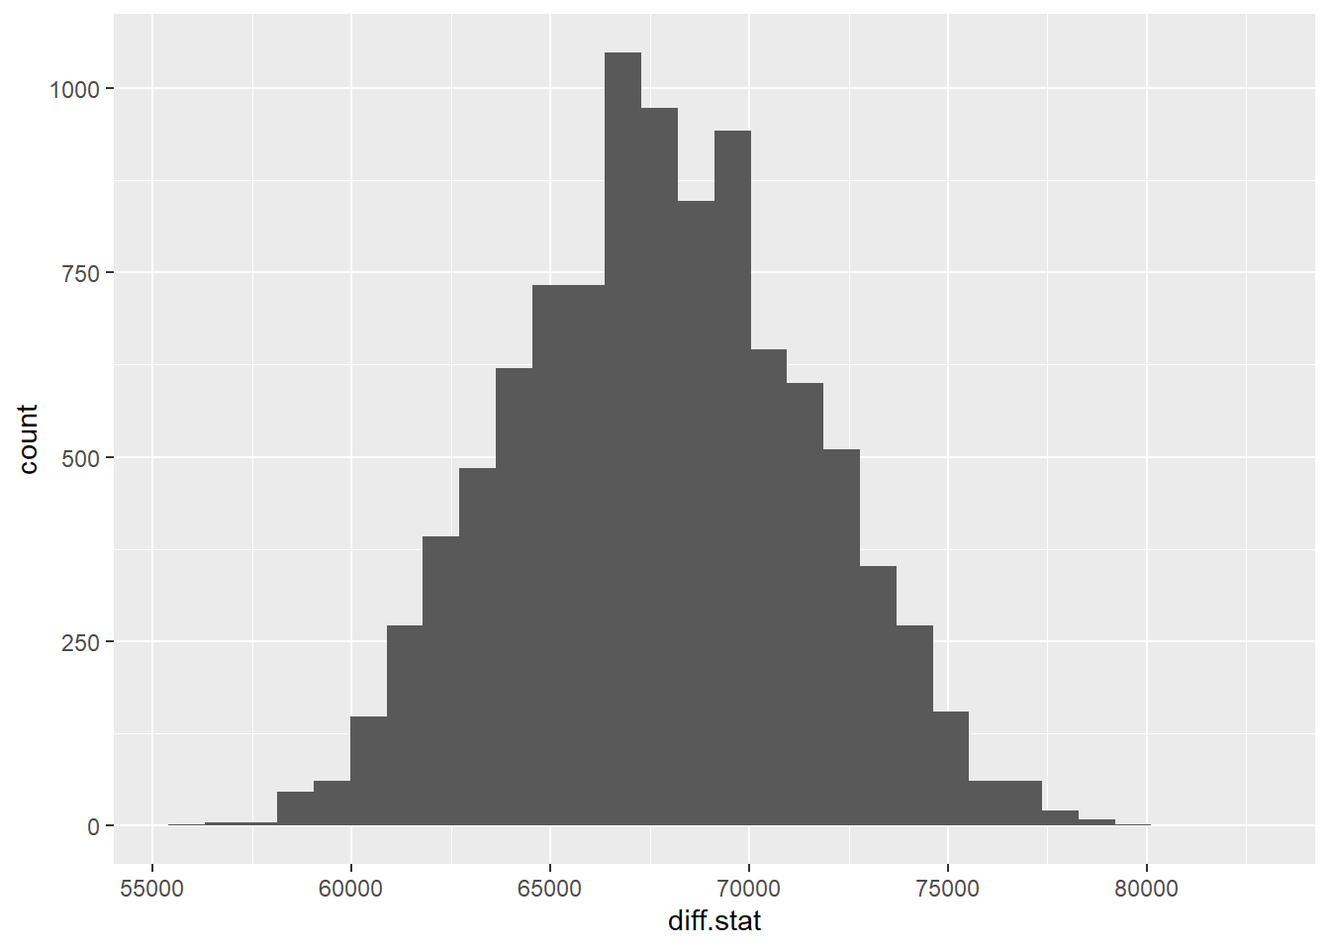
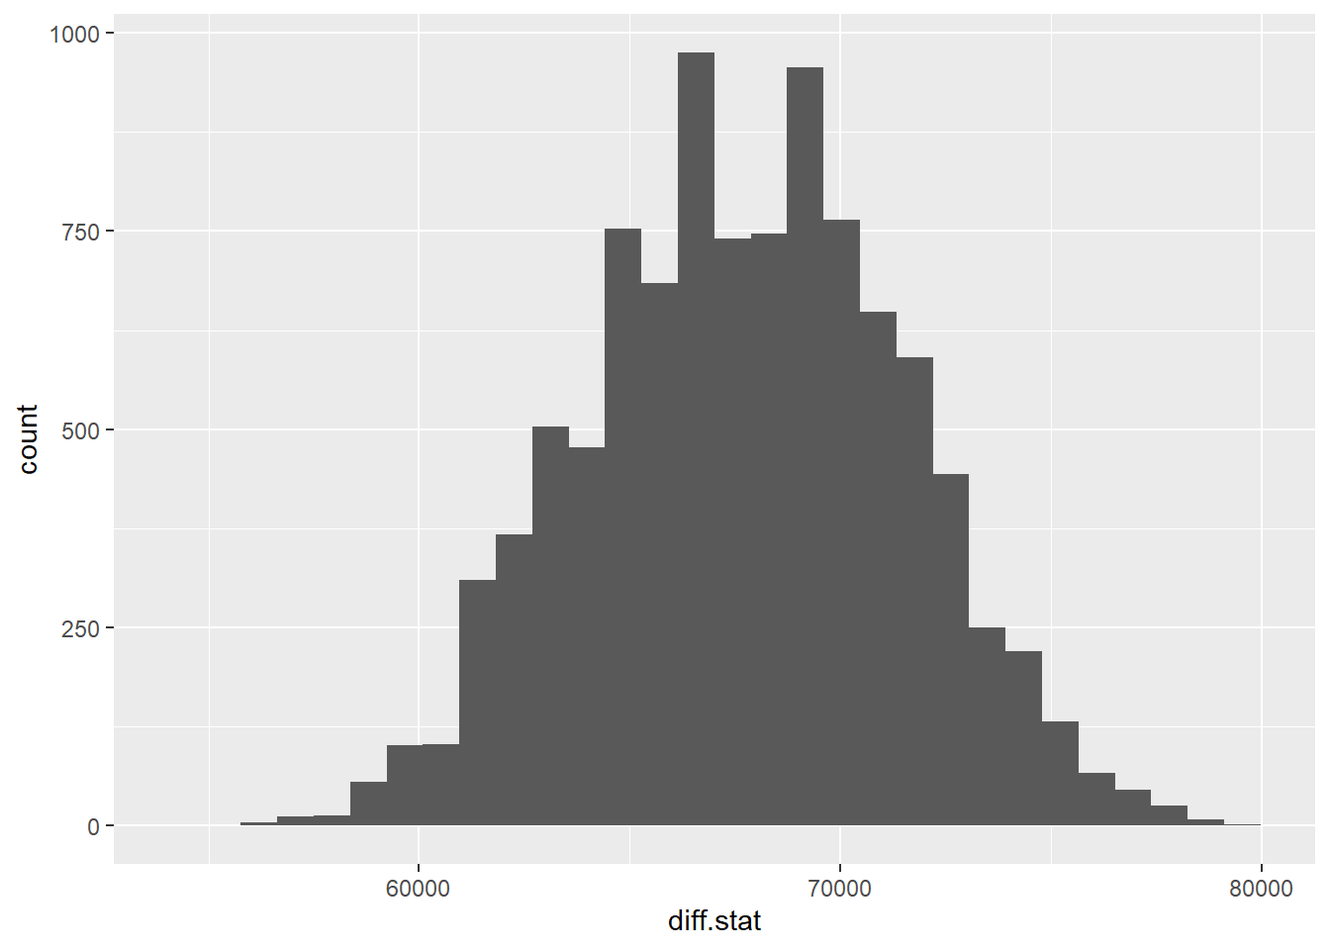
Association rules in python

diff --git a/docs/introduction.html b/docs/introduction.html
@@ -158,7 +158,10 @@ code span.wa { color: #60a0b0; font-weight: bold; font-style: italic; } /* Warni
 <li class="chapter" data-level="2.2.1" data-path="introduction.html"><a href="introduction.html#python-code-for-fdr"><i class="fa fa-check"></i><b>2.2.1</b> Python code for FDR</a></li>
 </ul></li>
 <li class="chapter" data-level="2.3" data-path="introduction.html"><a href="introduction.html#transaction-data"><i class="fa fa-check"></i><b>2.3</b> Transaction data</a></li>
-<li class="chapter" data-level="2.4" data-path="introduction.html"><a href="introduction.html#association-analysis"><i class="fa fa-check"></i><b>2.4</b> Association Analysis</a></li>
+<li class="chapter" data-level="2.4" data-path="introduction.html"><a href="introduction.html#association-analysis"><i class="fa fa-check"></i><b>2.4</b> Association Analysis</a>
+<ul>
+<li class="chapter" data-level="2.4.1" data-path="introduction.html"><a href="introduction.html#python-code-for-association-analysis"><i class="fa fa-check"></i><b>2.4.1</b> Python code for Association Analysis</a></li>
+</ul></li>
 </ul></li>
 <li class="chapter" data-level="3" data-path="decision-trees.html"><a href="decision-trees.html"><i class="fa fa-check"></i><b>3</b> Decision Trees</a>
 <ul>
@@ -267,12 +270,12 @@ code span.wa { color: #60a0b0; font-weight: bold; font-style: italic; } /* Warni
 <span id="cb5-8"><a href="introduction.html#cb5-8" tabindex="-1"></a>  boot.med[i]<span class="ot">=</span><span class="fu">median</span>(boot.samp)</span>
 <span id="cb5-9"><a href="introduction.html#cb5-9" tabindex="-1"></a>}</span>
 <span id="cb5-10"><a href="introduction.html#cb5-10" tabindex="-1"></a><span class="fu">sd</span>(boot.med)</span>
-<span id="cb5-11"><a href="introduction.html#cb5-11" tabindex="-1"></a><span class="do">## [1] 1.344323</span></span>
+<span id="cb5-11"><a href="introduction.html#cb5-11" tabindex="-1"></a><span class="do">## [1] 1.352779</span></span>
 <span id="cb5-12"><a href="introduction.html#cb5-12" tabindex="-1"></a>act.med</span>
 <span id="cb5-13"><a href="introduction.html#cb5-13" tabindex="-1"></a><span class="do">## [1] 335.17</span></span>
 <span id="cb5-14"><a href="introduction.html#cb5-14" tabindex="-1"></a><span class="fu">quantile</span>(boot.med,<span class="at">probs =</span> <span class="fu">c</span>(<span class="fl">0.025</span>,<span class="fl">0.975</span>))</span>
-<span id="cb5-15"><a href="introduction.html#cb5-15" tabindex="-1"></a><span class="do">##    2.5%   97.5% </span></span>
-<span id="cb5-16"><a href="introduction.html#cb5-16" tabindex="-1"></a><span class="do">## 332.745 337.800</span></span>
+<span id="cb5-15"><a href="introduction.html#cb5-15" tabindex="-1"></a><span class="do">##   2.5%  97.5% </span></span>
+<span id="cb5-16"><a href="introduction.html#cb5-16" tabindex="-1"></a><span class="do">## 332.60 337.79</span></span>
 <span id="cb5-17"><a href="introduction.html#cb5-17" tabindex="-1"></a><span class="fu">ggplot</span>(<span class="at">data=</span><span class="fu">data.frame</span>(boot.med),<span class="fu">aes</span>(<span class="at">x=</span>boot.med))<span class="sc">+</span><span class="fu">geom_histogram</span>() <span class="sc">+</span> <span class="fu">labs</span>(<span class="at">x=</span><span class="st">&quot;Bootstrap Sample&quot;</span>,<span class="at">y=</span><span class="st">&quot;Frequency&quot;</span>)</span>
 <span id="cb5-18"><a href="introduction.html#cb5-18" tabindex="-1"></a><span class="do">## `stat_bin()` using `bins = 30`. Pick better value with `binwidth`.</span></span></code></pre></div>
 <p><img src="bookdownproj_files/figure-html/bootstrap%20confidence%20interval-3.png" width="672" />
@@ -294,8 +297,8 @@ The second example is exploring if the median price of homes in Iowa with air co
 <pre><code>## `stat_bin()` using `bins = 30`. Pick better value with `binwidth`.</code></pre>
 <p><img src="bookdownproj_files/figure-html/bootstrap%20hypothesis%20test-1.png" width="672" /></p>
 <div class="sourceCode" id="cb8"><pre class="sourceCode r"><code class="sourceCode r"><span id="cb8-1"><a href="introduction.html#cb8-1" tabindex="-1"></a><span class="fu">quantile</span>(diff.stat,<span class="at">probs =</span> <span class="fu">c</span>(<span class="fl">0.005</span>,<span class="fl">0.995</span>))</span></code></pre></div>
-<pre><code>##    0.5%   99.5% 
-## 59000.0 76882.8</code></pre>
+<pre><code>##     0.5%    99.5% 
+## 58949.62 77000.00</code></pre>
 <p>Since the confidence interval does NOT include 0, we would conclude that the medians appear to be significantly different.</p>
 <div id="python-for-bootstrapping" class="section level3 hasAnchor" number="2.1.1">
 <h3><span class="header-section-number">2.1.1</span> Python for Bootstrapping<a href="introduction.html#python-for-bootstrapping" class="anchor-section" aria-label="Anchor link to header"></a></h3>
@@ -324,15 +327,15 @@ The second example is exploring if the median price of homes in Iowa with air co
 <span id="cb15-5"><a href="introduction.html#cb15-5" tabindex="-1"></a><span class="co">#temp =statistics.median(random.choice(co2_py,n))</span></span>
 <span id="cb15-6"><a href="introduction.html#cb15-6" tabindex="-1"></a></span>
 <span id="cb15-7"><a href="introduction.html#cb15-7" tabindex="-1"></a><span class="bu">print</span>(statistics.stdev(temp))</span></code></pre></div>
-<pre><code>## 1.3555625565580598</code></pre>
+<pre><code>## 1.3513368511809096</code></pre>
 <div class="sourceCode" id="cb17"><pre class="sourceCode python"><code class="sourceCode python"><span id="cb17-1"><a href="introduction.html#cb17-1" tabindex="-1"></a><span class="bu">print</span>(<span class="st">&quot;Lower 95</span><span class="sc">% c</span><span class="st">onfidence interval for median&quot;</span>,np.quantile(temp,<span class="fl">0.025</span>))</span></code></pre></div>
-<pre><code>## Lower 95% confidence interval for median 332.675</code></pre>
+<pre><code>## Lower 95% confidence interval for median 332.745</code></pre>
 <div class="sourceCode" id="cb19"><pre class="sourceCode python"><code class="sourceCode python"><span id="cb19-1"><a href="introduction.html#cb19-1" tabindex="-1"></a><span class="bu">print</span>(<span class="st">&quot;Upper 95</span><span class="sc">% c</span><span class="st">onfidence interval for median&quot;</span>,np.quantile(temp,<span class="fl">0.975</span>))</span></code></pre></div>
 <pre><code>## Upper 95% confidence interval for median 337.81</code></pre>
 <div class="sourceCode" id="cb21"><pre class="sourceCode python"><code class="sourceCode python"><span id="cb21-1"><a href="introduction.html#cb21-1" tabindex="-1"></a>plt.hist(temp)</span></code></pre></div>
-<pre><code>## (array([  18.,  253.,  771., 2082., 2426., 2836.,  938.,  628.,   43.,
-##           5.]), array([330.735, 331.706, 332.677, 333.648, 334.619, 335.59 , 336.561,
-##        337.532, 338.503, 339.474, 340.445]), &lt;BarContainer object of 10 artists&gt;)</code></pre>
+<pre><code>## (array([  17.,  201.,  817., 2331., 2172., 3390.,  682.,  344.,   38.,
+##           8.]), array([330.645 , 331.6555, 332.666 , 333.6765, 334.687 , 335.6975,
+##        336.708 , 337.7185, 338.729 , 339.7395, 340.75  ]), &lt;BarContainer object of 10 artists&gt;)</code></pre>
 <div class="sourceCode" id="cb23"><pre class="sourceCode python"><code class="sourceCode python"><span id="cb23-1"><a href="introduction.html#cb23-1" tabindex="-1"></a>plt.show()</span></code></pre></div>
 <p><img src="bookdownproj_files/figure-html/unnamed-chunk-1-2.png" width="672" /></p>
 <div class="sourceCode" id="cb24"><pre class="sourceCode python"><code class="sourceCode python"><span id="cb24-1"><a href="introduction.html#cb24-1" tabindex="-1"></a>ames_py<span class="op">=</span>r.ames</span>
@@ -350,9 +353,9 @@ The second example is exploring if the median price of homes in Iowa with air co
 <span id="cb26-10"><a href="introduction.html#cb26-10" tabindex="-1"></a>  diff_sale.append(diff_temp)</span>
 <span id="cb26-11"><a href="introduction.html#cb26-11" tabindex="-1"></a>  </span>
 <span id="cb26-12"><a href="introduction.html#cb26-12" tabindex="-1"></a>plt.hist(diff_sale)</span></code></pre></div>
-<pre><code>## (array([   7.,   48.,  181., 1196., 2694., 2492., 2268.,  822.,  270.,
-##          22.]), array([60000.  , 61464.25, 62928.5 , 64392.75, 65857.  , 67321.25,
-##        68785.5 , 70249.75, 71714.  , 73178.25, 74642.5 ]), &lt;BarContainer object of 10 artists&gt;)</code></pre>
+<pre><code>## (array([  11.,   76.,  280., 1384., 3264., 2492., 1855.,  587.,   43.,
+##           8.]), array([60400., 61860., 63320., 64780., 66240., 67700., 69160., 70620.,
+##        72080., 73540., 75000.]), &lt;BarContainer object of 10 artists&gt;)</code></pre>
 <div class="sourceCode" id="cb28"><pre class="sourceCode python"><code class="sourceCode python"><span id="cb28-1"><a href="introduction.html#cb28-1" tabindex="-1"></a>plt.show()</span></code></pre></div>
 <p><img src="bookdownproj_files/figure-html/unnamed-chunk-1-3.png" width="672" /></p>
 </div>
@@ -814,9 +817,52 @@ bread
 <p><img src="bookdownproj_files/figure-html/association2-2.png" width="672" /></p>
 <div class="sourceCode" id="cb49"><pre class="sourceCode r"><code class="sourceCode r"><span id="cb49-1"><a href="introduction.html#cb49-1" tabindex="-1"></a>top10rules <span class="ot">=</span> <span class="fu">head</span>(rules, <span class="at">n =</span> <span class="dv">10</span>, <span class="at">by =</span> <span class="st">&quot;confidence&quot;</span>)</span>
 <span id="cb49-2"><a href="introduction.html#cb49-2" tabindex="-1"></a><span class="fu">plot</span>(top10rules, <span class="at">method =</span> <span class="st">&quot;graph&quot;</span>,  <span class="at">engine =</span> <span class="st">&quot;htmlwidget&quot;</span>)</span></code></pre></div>
-<div class="visNetwork html-widget html-fill-item-overflow-hidden html-fill-item" id="htmlwidget-a85db0969abbd471c6d3" style="width:672px;height:480px;"></div>
-<script type="application/json" data-for="htmlwidget-a85db0969abbd471c6d3">{"x":{"nodes":{"id":[1,2,3,4,5,6,7,8,9,10,11,12,13,14,15,16],"label":["bread","butter","egg","milk","oat packet","papaya","rule 1","rule 2","rule 3","rule 4","rule 5","rule 6","rule 7","rule 8","rule 9","rule 10"],"group":[1,1,1,1,1,1,2,2,2,2,2,2,2,2,2,2],"value":[1,1,1,1,1,1,20.8,1,20.8,40.6,1,1,1,100,20.8,40.6],"color":["#CBD2FC","#CBD2FC","#CBD2FC","#CBD2FC","#CBD2FC","#CBD2FC","#EE6666","#EE1B1B","#EE9999","#EECBCB","#EECBCB","#EECBCB","#EEB1B1","#EED4D4","#EEDCDC","#EECBCB"],"title":["bread","butter","egg","milk","oat packet","papaya","<B>[1]<\/B><BR><B>{butter}<\/B><BR>&nbsp;&nbsp; => <B>{bread}<\/B><BR><BR>support = 0.273<BR>confidence = 1<BR>coverage = 0.273<BR>lift = 1.57<BR>count = 3<BR>order = 2<BR>id = 1","<B>[2]<\/B><BR><B>{bread,<BR>&nbsp;&nbsp;oat packet}<\/B><BR>&nbsp;&nbsp; => <B>{papaya}<\/B><BR><BR>support = 0.182<BR>confidence = 1<BR>coverage = 0.182<BR>lift = 1.83<BR>count = 2<BR>order = 3<BR>id = 2","<B>[3]<\/B><BR><B>{oat packet}<\/B><BR>&nbsp;&nbsp; => <B>{papaya}<\/B><BR><BR>support = 0.273<BR>confidence = 0.75<BR>coverage = 0.364<BR>lift = 1.38<BR>count = 3<BR>order = 2<BR>id = 3","<B>[4]<\/B><BR><B>{papaya}<\/B><BR>&nbsp;&nbsp; => <B>{bread}<\/B><BR><BR>support = 0.364<BR>confidence = 0.667<BR>coverage = 0.545<BR>lift = 1.05<BR>count = 4<BR>order = 2<BR>id = 4","<B>[5]<\/B><BR><B>{oat packet,<BR>&nbsp;&nbsp;papaya}<\/B><BR>&nbsp;&nbsp; => <B>{bread}<\/B><BR><BR>support = 0.182<BR>confidence = 0.667<BR>coverage = 0.273<BR>lift = 1.05<BR>count = 2<BR>order = 3<BR>id = 5","<B>[6]<\/B><BR><B>{milk,<BR>&nbsp;&nbsp;papaya}<\/B><BR>&nbsp;&nbsp; => <B>{bread}<\/B><BR><BR>support = 0.182<BR>confidence = 0.667<BR>coverage = 0.273<BR>lift = 1.05<BR>count = 2<BR>order = 3<BR>id = 6","<B>[7]<\/B><BR><B>{bread,<BR>&nbsp;&nbsp;milk}<\/B><BR>&nbsp;&nbsp; => <B>{papaya}<\/B><BR><BR>support = 0.182<BR>confidence = 0.667<BR>coverage = 0.273<BR>lift = 1.22<BR>count = 2<BR>order = 3<BR>id = 7","<B>[8]<\/B><BR><B>{}<\/B><BR>&nbsp;&nbsp; => <B>{bread}<\/B><BR><BR>support = 0.636<BR>confidence = 0.636<BR>coverage = 1<BR>lift = 1<BR>count = 7<BR>order = 1<BR>id = 8","<B>[9]<\/B><BR><B>{egg}<\/B><BR>&nbsp;&nbsp; => <B>{bread}<\/B><BR><BR>support = 0.273<BR>confidence = 0.6<BR>coverage = 0.455<BR>lift = 0.943<BR>count = 3<BR>order = 2<BR>id = 9","<B>[10]<\/B><BR><B>{bread}<\/B><BR>&nbsp;&nbsp; => <B>{papaya}<\/B><BR><BR>support = 0.364<BR>confidence = 0.571<BR>coverage = 0.636<BR>lift = 1.05<BR>count = 4<BR>order = 2<BR>id = 10"],"shape":["box","box","box","box","box","box","circle","circle","circle","circle","circle","circle","circle","circle","circle","circle"],"x":[0.113164853118797,0.00747004075560409,-1,1,0.274103923951308,0.467118355857654,0.0595230300362222,0.28053660632711,0.601403405471269,0.0682381810990156,0.103940883387256,0.606051973161515,0.676436484424188,-0.208593690788155,-0.534959354208641,0.374400303678304],"y":[0.0985409754331625,-1,0.0560565730212621,-0.0213725308481618,1,0.475508563567383,-0.540111660441799,0.631141138859338,0.962061768806175,0.372181725600326,0.63576799782864,0.0274591471665879,0.193545455055444,-0.215153794068995,0.075401119720711,0.162414364832449]},"edges":{"from":[2,1,5,5,6,5,6,4,6,1,4,3,1,7,8,9,10,11,12,13,14,15,16],"to":[7,8,8,9,10,11,11,12,12,13,13,15,16,1,6,6,1,1,1,6,1,1,6],"arrows":["to","to","to","to","to","to","to","to","to","to","to","to","to","to","to","to","to","to","to","to","to","to","to"]},"nodesToDataframe":true,"edgesToDataframe":true,"options":{"width":"100%","height":"100%","nodes":{"shape":"dot","physics":false},"manipulation":{"enabled":false},"edges":{"smooth":false},"physics":{"stabilization":false},"interaction":{"hover":true,"zoomSpeed":1}},"groups":["1","2"],"width":null,"height":null,"idselection":{"enabled":true,"style":"width: 150px; height: 26px","useLabels":true,"main":"Select by id"},"byselection":{"enabled":false,"style":"width: 150px; height: 26px","multiple":false,"hideColor":"rgba(200,200,200,0.5)","highlight":false},"main":null,"submain":null,"footer":null,"background":"rgba(0, 0, 0, 0)","igraphlayout":{"type":"square"},"tooltipStay":300,"tooltipStyle":"position: fixed;visibility:hidden;padding: 5px;white-space: nowrap;font-family: verdana;font-size:14px;font-color:#000000;background-color: #f5f4ed;-moz-border-radius: 3px;-webkit-border-radius: 3px;border-radius: 3px;border: 1px solid #808074;box-shadow: 3px 3px 10px rgba(0, 0, 0, 0.2);","highlight":{"enabled":true,"hoverNearest":true,"degree":1,"algorithm":"all","hideColor":"rgba(200,200,200,0.5)","labelOnly":true},"collapse":{"enabled":false,"fit":false,"resetHighlight":true,"clusterOptions":null,"keepCoord":true,"labelSuffix":"(cluster)"}},"evals":[],"jsHooks":[]}</script>
+<div class="visNetwork html-widget html-fill-item-overflow-hidden html-fill-item" id="htmlwidget-61852a9f2774b94e7166" style="width:672px;height:480px;"></div>
+<script type="application/json" data-for="htmlwidget-61852a9f2774b94e7166">{"x":{"nodes":{"id":[1,2,3,4,5,6,7,8,9,10,11,12,13,14,15,16],"label":["bread","butter","egg","milk","oat packet","papaya","rule 1","rule 2","rule 3","rule 4","rule 5","rule 6","rule 7","rule 8","rule 9","rule 10"],"group":[1,1,1,1,1,1,2,2,2,2,2,2,2,2,2,2],"value":[1,1,1,1,1,1,20.8,1,20.8,40.6,1,1,1,100,20.8,40.6],"color":["#CBD2FC","#CBD2FC","#CBD2FC","#CBD2FC","#CBD2FC","#CBD2FC","#EE6666","#EE1B1B","#EE9999","#EECBCB","#EECBCB","#EECBCB","#EEB1B1","#EED4D4","#EEDCDC","#EECBCB"],"title":["bread","butter","egg","milk","oat packet","papaya","<B>[1]<\/B><BR><B>{butter}<\/B><BR>&nbsp;&nbsp; => <B>{bread}<\/B><BR><BR>support = 0.273<BR>confidence = 1<BR>coverage = 0.273<BR>lift = 1.57<BR>count = 3<BR>order = 2<BR>id = 1","<B>[2]<\/B><BR><B>{bread,<BR>&nbsp;&nbsp;oat packet}<\/B><BR>&nbsp;&nbsp; => <B>{papaya}<\/B><BR><BR>support = 0.182<BR>confidence = 1<BR>coverage = 0.182<BR>lift = 1.83<BR>count = 2<BR>order = 3<BR>id = 2","<B>[3]<\/B><BR><B>{oat packet}<\/B><BR>&nbsp;&nbsp; => <B>{papaya}<\/B><BR><BR>support = 0.273<BR>confidence = 0.75<BR>coverage = 0.364<BR>lift = 1.38<BR>count = 3<BR>order = 2<BR>id = 3","<B>[4]<\/B><BR><B>{papaya}<\/B><BR>&nbsp;&nbsp; => <B>{bread}<\/B><BR><BR>support = 0.364<BR>confidence = 0.667<BR>coverage = 0.545<BR>lift = 1.05<BR>count = 4<BR>order = 2<BR>id = 4","<B>[5]<\/B><BR><B>{oat packet,<BR>&nbsp;&nbsp;papaya}<\/B><BR>&nbsp;&nbsp; => <B>{bread}<\/B><BR><BR>support = 0.182<BR>confidence = 0.667<BR>coverage = 0.273<BR>lift = 1.05<BR>count = 2<BR>order = 3<BR>id = 5","<B>[6]<\/B><BR><B>{milk,<BR>&nbsp;&nbsp;papaya}<\/B><BR>&nbsp;&nbsp; => <B>{bread}<\/B><BR><BR>support = 0.182<BR>confidence = 0.667<BR>coverage = 0.273<BR>lift = 1.05<BR>count = 2<BR>order = 3<BR>id = 6","<B>[7]<\/B><BR><B>{bread,<BR>&nbsp;&nbsp;milk}<\/B><BR>&nbsp;&nbsp; => <B>{papaya}<\/B><BR><BR>support = 0.182<BR>confidence = 0.667<BR>coverage = 0.273<BR>lift = 1.22<BR>count = 2<BR>order = 3<BR>id = 7","<B>[8]<\/B><BR><B>{}<\/B><BR>&nbsp;&nbsp; => <B>{bread}<\/B><BR><BR>support = 0.636<BR>confidence = 0.636<BR>coverage = 1<BR>lift = 1<BR>count = 7<BR>order = 1<BR>id = 8","<B>[9]<\/B><BR><B>{egg}<\/B><BR>&nbsp;&nbsp; => <B>{bread}<\/B><BR><BR>support = 0.273<BR>confidence = 0.6<BR>coverage = 0.455<BR>lift = 0.943<BR>count = 3<BR>order = 2<BR>id = 9","<B>[10]<\/B><BR><B>{bread}<\/B><BR>&nbsp;&nbsp; => <B>{papaya}<\/B><BR><BR>support = 0.364<BR>confidence = 0.571<BR>coverage = 0.636<BR>lift = 1.05<BR>count = 4<BR>order = 2<BR>id = 10"],"shape":["box","box","box","box","box","box","circle","circle","circle","circle","circle","circle","circle","circle","circle","circle"],"x":[-0.139379541119081,-1,1,0.782870483838844,-0.988896454019208,-0.241802199801984,-0.645518106090304,-0.733856394724777,-0.651539560878394,-0.00226434992066593,-0.582135050670001,0.373034402062449,0.263517864053675,-0.064560903799038,0.525511863582374,-0.503475542320981],"y":[0.00340091860723346,-1,-0.817584997157912,0.635387977239325,0.760572095439199,0.549829085832358,-0.577595633450304,0.365210761716944,1,0.270786156369352,0.513007199109017,0.351274601385263,0.52967421138423,-0.471776849811433,-0.46715312412785,0.136688080429904]},"edges":{"from":[2,1,5,5,6,5,6,4,6,1,4,3,1,7,8,9,10,11,12,13,14,15,16],"to":[7,8,8,9,10,11,11,12,12,13,13,15,16,1,6,6,1,1,1,6,1,1,6],"arrows":["to","to","to","to","to","to","to","to","to","to","to","to","to","to","to","to","to","to","to","to","to","to","to"]},"nodesToDataframe":true,"edgesToDataframe":true,"options":{"width":"100%","height":"100%","nodes":{"shape":"dot","physics":false},"manipulation":{"enabled":false},"edges":{"smooth":false},"physics":{"stabilization":false},"interaction":{"hover":true,"zoomSpeed":1}},"groups":["1","2"],"width":null,"height":null,"idselection":{"enabled":true,"style":"width: 150px; height: 26px","useLabels":true,"main":"Select by id"},"byselection":{"enabled":false,"style":"width: 150px; height: 26px","multiple":false,"hideColor":"rgba(200,200,200,0.5)","highlight":false},"main":null,"submain":null,"footer":null,"background":"rgba(0, 0, 0, 0)","igraphlayout":{"type":"square"},"tooltipStay":300,"tooltipStyle":"position: fixed;visibility:hidden;padding: 5px;white-space: nowrap;font-family: verdana;font-size:14px;font-color:#000000;background-color: #f5f4ed;-moz-border-radius: 3px;-webkit-border-radius: 3px;border-radius: 3px;border: 1px solid #808074;box-shadow: 3px 3px 10px rgba(0, 0, 0, 0.2);","highlight":{"enabled":true,"hoverNearest":true,"degree":1,"algorithm":"all","hideColor":"rgba(200,200,200,0.5)","labelOnly":true},"collapse":{"enabled":false,"fit":false,"resetHighlight":true,"clusterOptions":null,"keepCoord":true,"labelSuffix":"(cluster)"}},"evals":[],"jsHooks":[]}</script>
+<div id="python-code-for-association-analysis" class="section level3 hasAnchor" number="2.4.1">
+<h3><span class="header-section-number">2.4.1</span> Python code for Association Analysis<a href="introduction.html#python-code-for-association-analysis" class="anchor-section" aria-label="Anchor link to header"></a></h3>
+<div class="sourceCode" id="cb50"><pre class="sourceCode python"><code class="sourceCode python"><span id="cb50-1"><a href="introduction.html#cb50-1" tabindex="-1"></a><span class="im">from</span> mlxtend.frequent_patterns <span class="im">import</span> association_rules</span>
+<span id="cb50-2"><a href="introduction.html#cb50-2" tabindex="-1"></a><span class="im">from</span> mlxtend.frequent_patterns <span class="im">import</span> apriori</span>
+<span id="cb50-3"><a href="introduction.html#cb50-3" tabindex="-1"></a></span>
+<span id="cb50-4"><a href="introduction.html#cb50-4" tabindex="-1"></a>grocery <span class="op">=</span> pd.read_csv(<span class="st">&quot;Q:</span><span class="ch">\\</span><span class="st">My Drive</span><span class="ch">\\</span><span class="st">Data Mining</span><span class="ch">\\</span><span class="st">Data</span><span class="ch">\\</span><span class="st">Grocery1.csv&quot;</span>)</span>
+<span id="cb50-5"><a href="introduction.html#cb50-5" tabindex="-1"></a></span>
+<span id="cb50-6"><a href="introduction.html#cb50-6" tabindex="-1"></a>grocery_1 <span class="op">=</span> pd.get_dummies(grocery[<span class="st">&quot;Grocery&quot;</span>])</span>
+<span id="cb50-7"><a href="introduction.html#cb50-7" tabindex="-1"></a>grocery_2<span class="op">=</span>grocery_1<span class="op">*</span><span class="dv">1</span></span>
+<span id="cb50-8"><a href="introduction.html#cb50-8" tabindex="-1"></a>grocery_2[<span class="st">&quot;ID&quot;</span>]<span class="op">=</span>grocery[<span class="st">&quot;ID&quot;</span>]</span>
+<span id="cb50-9"><a href="introduction.html#cb50-9" tabindex="-1"></a>grocery_3 <span class="op">=</span> grocery_2.groupby([<span class="st">&quot;ID&quot;</span>]).<span class="bu">max</span>()</span>
+<span id="cb50-10"><a href="introduction.html#cb50-10" tabindex="-1"></a>grocery_4<span class="op">=</span>grocery_3.applymap(<span class="bu">bool</span>)</span></code></pre></div>
+<pre><code>## &lt;string&gt;:1: FutureWarning: DataFrame.applymap has been deprecated. Use DataFrame.map instead.</code></pre>
+<div class="sourceCode" id="cb52"><pre class="sourceCode python"><code class="sourceCode python"><span id="cb52-1"><a href="introduction.html#cb52-1" tabindex="-1"></a>grocery_assoc <span class="op">=</span> apriori(grocery_4, min_support <span class="op">=</span> <span class="fl">0.001</span>, use_colnames <span class="op">=</span> <span class="va">True</span>)</span>
+<span id="cb52-2"><a href="introduction.html#cb52-2" tabindex="-1"></a></span>
+<span id="cb52-3"><a href="introduction.html#cb52-3" tabindex="-1"></a>out_rules <span class="op">=</span> association_rules(grocery_assoc,metric <span class="op">=</span> <span class="st">&quot;confidence&quot;</span>, min_threshold <span class="op">=</span> <span class="fl">0.6</span>)</span>
+<span id="cb52-4"><a href="introduction.html#cb52-4" tabindex="-1"></a></span>
+<span id="cb52-5"><a href="introduction.html#cb52-5" tabindex="-1"></a>out_rules2<span class="op">=</span>out_rules[[<span class="st">&#39;antecedents&#39;</span>,<span class="st">&#39;consequents&#39;</span>,<span class="st">&#39;support&#39;</span>,<span class="st">&#39;confidence&#39;</span>,<span class="st">&#39;lift&#39;</span>]]</span>
+<span id="cb52-6"><a href="introduction.html#cb52-6" tabindex="-1"></a></span>
+<span id="cb52-7"><a href="introduction.html#cb52-7" tabindex="-1"></a>out_rules2</span></code></pre></div>
+<pre><code>##                    antecedents          consequents  ...  confidence      lift
+## 0                     (butter)              (bread)  ...    1.000000  1.571429
+## 1                        (egg)              (bread)  ...    0.600000  0.942857
+## 2                     (papaya)              (bread)  ...    0.666667  1.047619
+## 3                 (oat packet)             (papaya)  ...    0.750000  1.375000
+## 4                (butter, egg)              (bread)  ...    1.000000  1.571429
+## 5               (butter, milk)              (bread)  ...    1.000000  1.571429
+## 6             (butter, papaya)              (bread)  ...    1.000000  1.571429
+## 7                (egg, papaya)              (bread)  ...    1.000000  1.571429
+## 8               (milk, papaya)              (bread)  ...    0.666667  1.047619
+## 9                (milk, bread)             (papaya)  ...    0.666667  1.222222
+## 10        (oat packet, papaya)              (bread)  ...    0.666667  1.047619
+## 11         (oat packet, bread)             (papaya)  ...    1.000000  1.833333
+## 12               (egg, papaya)         (oat packet)  ...    1.000000  2.750000
+## 13   (oat packet, papaya, egg)              (bread)  ...    1.000000  1.571429
+## 14    (oat packet, egg, bread)             (papaya)  ...    1.000000  1.833333
+## 15        (egg, papaya, bread)         (oat packet)  ...    1.000000  2.750000
+## 16               (egg, papaya)  (oat packet, bread)  ...    1.000000  5.500000
+## 17  (oat packet, milk, papaya)              (bread)  ...    1.000000  1.571429
+## 18   (oat packet, milk, bread)             (papaya)  ...    1.000000  1.833333
+## 
+## [19 rows x 5 columns]</code></pre>
 
+</div>
 </div>
 </div>
             </section>

diff --git a/docs/404.html b/docs/404.html
@@ -158,7 +158,10 @@ code span.wa { color: #60a0b0; font-weight: bold; font-style: italic; } /* Warni
 <li class="chapter" data-level="2.2.1" data-path="introduction.html"><a href="introduction.html#python-code-for-fdr"><i class="fa fa-check"></i><b>2.2.1</b> Python code for FDR</a></li>
 </ul></li>
 <li class="chapter" data-level="2.3" data-path="introduction.html"><a href="introduction.html#transaction-data"><i class="fa fa-check"></i><b>2.3</b> Transaction data</a></li>
-<li class="chapter" data-level="2.4" data-path="introduction.html"><a href="introduction.html#association-analysis"><i class="fa fa-check"></i><b>2.4</b> Association Analysis</a></li>
+<li class="chapter" data-level="2.4" data-path="introduction.html"><a href="introduction.html#association-analysis"><i class="fa fa-check"></i><b>2.4</b> Association Analysis</a>
+<ul>
+<li class="chapter" data-level="2.4.1" data-path="introduction.html"><a href="introduction.html#python-code-for-association-analysis"><i class="fa fa-check"></i><b>2.4.1</b> Python code for Association Analysis</a></li>
+</ul></li>
 </ul></li>
 <li class="chapter" data-level="3" data-path="decision-trees.html"><a href="decision-trees.html"><i class="fa fa-check"></i><b>3</b> Decision Trees</a>
 <ul>
